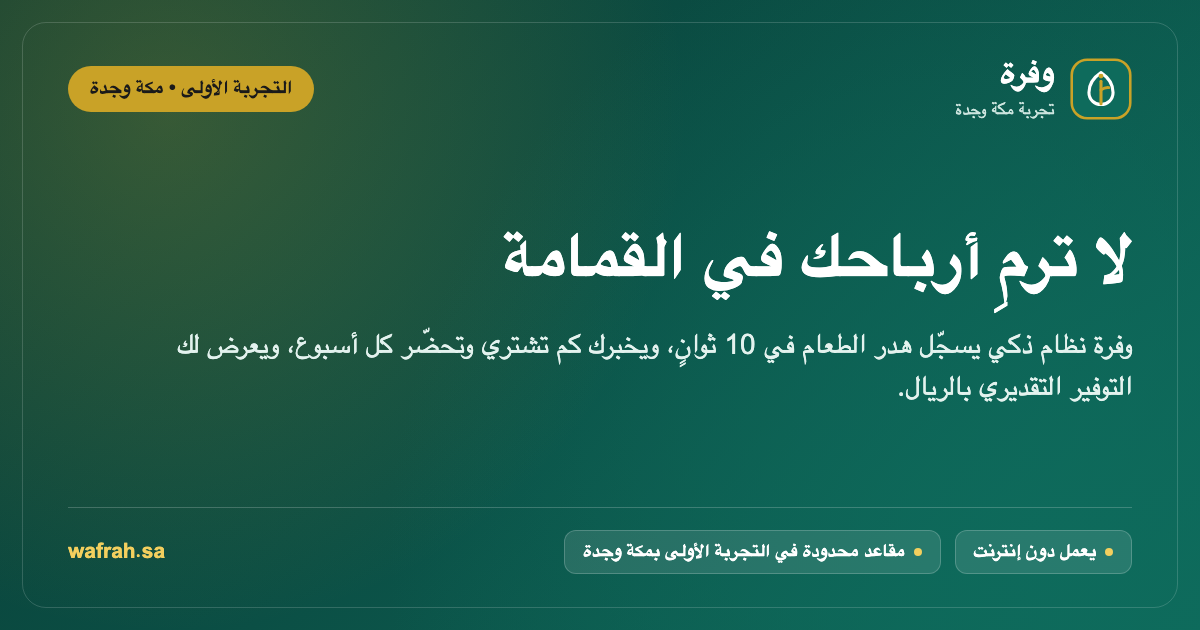
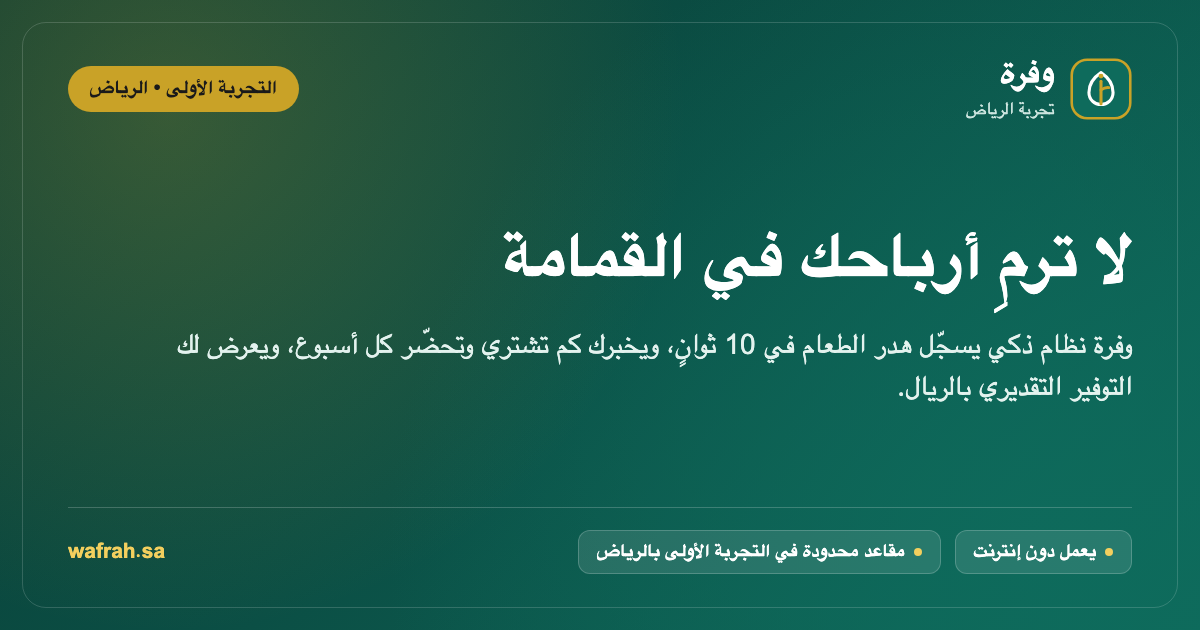
Switch founding pilot region across all pages from Makkah & Jeddah to Riyadh

Changed region(s): [[0.0617, 0.0905, 0.2775, 0.181], [0.4625, 0.8444, 0.555, 0.9048], [0.8017, 0.1508, 0.8633, 0.2111]]

diff --git a/src/features/landing/pilot-lead-form-fields.tsx b/src/features/landing/pilot-lead-form-fields.tsx
@@ -2,7 +2,6 @@
 
 import Link from "next/link";
 import {
-  LEAD_CITY_VALUES,
   LEAD_POS_VALUES,
   type LeadCityValue,
   type LeadFieldErrors,
@@ -11,11 +10,22 @@ import {
 } from "@/features/leads/schema";
 import { LabeledLeadInput, LeadRadioGroup } from "./lead-form-controls";
 
-const CITY_KEY: Record<LeadCityValue, "makkah" | "jeddah" | "other"> = {
-  MAKKAH: "makkah",
-  JEDDAH: "jeddah",
-  OTHER: "other",
-};
+export type LeadCityUiOption = "RIYADH" | LeadCityValue;
+
+const UI_CITY_OPTIONS: ReadonlyArray<LeadCityUiOption> = [
+  "RIYADH",
+  "JEDDAH",
+  "MAKKAH",
+  "OTHER",
+];
+
+const CITY_KEY: Record<LeadCityUiOption, "riyadh" | "makkah" | "jeddah" | "other"> =
+  {
+    RIYADH: "riyadh",
+    MAKKAH: "makkah",
+    JEDDAH: "jeddah",
+    OTHER: "other",
+  };
 
 const POS_KEY: Record<LeadPosValue, "foodics" | "marn" | "other" | "none"> = {
   FOODICS: "foodics",
@@ -27,7 +37,7 @@ const POS_KEY: Record<LeadPosValue, "foodics" | "marn" | "other" | "none"> = {
 export interface LeadFormFieldsState {
   name: string;
   businessName: string;
-  city: LeadCityValue;
+  city: LeadCityUiOption;
   cityOther: string;
   role: string;
   phone: string;
@@ -110,9 +120,9 @@ export function PilotLeadFormFields({
         labelId="lead-city-label"
         label={t("fields.city.label")}
         value={values.city}
-        columnsClassName="grid-cols-3"
+        columnsClassName="grid-cols-2 sm:grid-cols-4"
         alignClassName="text-center"
-        options={LEAD_CITY_VALUES.map((option) => ({
+        options={UI_CITY_OPTIONS.map((option) => ({
           value: option,
           label: t(`fields.city.options.${CITY_KEY[option]}`),
           testId: `lead-city-${option}`,

diff --git a/src/features/landing/landing-seo.test.ts b/src/features/landing/landing-seo.test.ts
@@ -182,6 +182,11 @@ describe("landing SEO, structured data & content QA", () => {
     expect(entries).toHaveLength(3);
     const [org, app, faq] = entries;
     expect(org["@type"]).toBe("Organization");
+    expect(org.areaServed).toEqual(
+      expect.arrayContaining([
+        expect.objectContaining({ "@type": "City", name: "Riyadh" }),
+      ]),
+    );
     expect(app["@type"]).toBe("SoftwareApplication");
     expect(app).not.toHaveProperty("aggregateRating");
     expect(app).not.toHaveProperty("review");
@@ -222,6 +227,12 @@ describe("landing SEO, structured data & content QA", () => {
     expect(arMessages.landing.hero.mock.kpiDeltaValue).toContain(
       "\u2066-16%\u2069",
     );
+    expect(arMessages.landing.hero.eyebrow).toContain("الرياض");
+    expect(arMessages.landing.header.pilotTag).toContain("الرياض");
+    expect(arMessages.landing.footer.pilotRegions).toContain("الرياض");
+    expect(enMessages.landing.hero.eyebrow).toContain("Riyadh");
+    expect(enMessages.landing.header.pilotTag).toContain("Riyadh");
+    expect(enMessages.landing.footer.pilotRegions).toContain("Riyadh");
 
     const publicDir = path.resolve(process.cwd(), "public");
     for (const file of ["og-ar.png", "og-en.png"]) {

diff --git a/src/features/landing/pilot-lead-form.tsx b/src/features/landing/pilot-lead-form.tsx
@@ -32,7 +32,7 @@ interface PilotLeadFormProps {
 const INITIAL_VALUES: LeadFormFieldsState = {
   name: "",
   businessName: "",
-  city: "MAKKAH",
+  city: "RIYADH",
   cityOther: "",
   role: "",
   phone: "",
@@ -125,9 +125,20 @@ export function PilotLeadForm({
     if (submitting) return;
 
     setFormError(null);
+    const apiCity: LeadCityValue =
+      values.city === "RIYADH" ? "OTHER" : values.city;
+    const apiCityOther =
+      values.city === "RIYADH"
+        ? locale === "en"
+          ? "Riyadh"
+          : "الرياض"
+        : values.city === "OTHER"
+          ? values.cityOther
+          : "";
     const candidate = {
       ...values,
-      cityOther: values.city === "OTHER" ? values.cityOther : "",
+      city: apiCity,
+      cityOther: apiCityOther,
     };
     const parsed = pilotLeadFormSchema.safeParse(candidate);
     if (!parsed.success) {
@@ -189,7 +200,7 @@ export function PilotLeadForm({
         );
         track("lead_submit", {
           locale,
-          city: payload.city ?? values.city,
+          city: payload.city ?? apiCity,
           currentPos: payload.posSystem ?? values.posSystem,
           branchesBand:
             payload.branchesBand ??

diff --git a/src/features/landing/landing-jsonld.ts b/src/features/landing/landing-jsonld.ts
@@ -38,8 +38,7 @@ export function buildLandingJsonLd(input: LandingJsonLdInput) {
     url: baseUrl,
     logo: `${baseUrl}/icon-512.png`,
     areaServed: [
-      { "@type": "City", name: isEn ? "Makkah" : "مكة المكرمة" },
-      { "@type": "City", name: isEn ? "Jeddah" : "جدة" },
+      { "@type": "City", name: isEn ? "Riyadh" : "الرياض" },
       {
         "@type": "Country",
         name: isEn ? "Saudi Arabia" : "المملكة العربية السعودية",

diff --git a/docs/LANDING.md b/docs/LANDING.md
@@ -6,7 +6,7 @@
 
 ## 1. Product Positioning, Audience & Tone
 
-- **Primary Goal:** Collect pilot sign-ups from restaurant and hotel owners/managers in **Makkah and Jeddah** (founding cohort capped at **15 pilot restaurants**).
+- **Primary Goal:** Collect pilot sign-ups from restaurant and hotel owners/managers in **Riyadh** (founding cohort capped at **15 pilot restaurants**).
   - **Primary CTA:** `"احجز مكانك في التجربة"` / `"Request a spot in the pilot"` (scrolls to and focuses `#pilot-form`).
   - **Secondary CTA:** WhatsApp chat (`https://wa.me/${NEXT_PUBLIC_WHATSAPP_NUMBER}`).
 - **Target Audience:** Saudi restaurant owners, F&B directors, and hotel hospitality managers browsing primarily on **mobile phones** (**assume 80%+ mobile traffic**).
@@ -73,7 +73,7 @@ All copy keys live under `landing.*` in `messages/ar.json` and `messages/en.json
   - Title, practical subheadline mentioning 10-second logging, weekly buy/prep recommendations, and savings in SAR.
   - Primary CTA button (`Request a spot in the pilot` -> smooth-scrolls to `#pilot-form` and focuses first input).
   - Secondary CTA button (`Chat on WhatsApp` -> `https://wa.me/${NEXT_PUBLIC_WHATSAPP_NUMBER}` in new tab with `rel="noopener noreferrer"`).
-  - Urgency/scarcity note anchored to truth (`"Limited places in the first pilot in Makkah and Jeddah"`).
+  - Urgency/scarcity note anchored to truth (`"Limited places in the first pilot in Riyadh"`).
 
 ### 2. Problem (`landing.problem`)
 - **Heading:** `"الهدر يأكل هامش ربحك بصمت"` / `"Waste quietly eats your margin"`
@@ -146,7 +146,7 @@ All copy keys live under `landing.*` in `messages/ar.json` and `messages/en.json
 
 ### 9. Sources & Footer (`landing.sources`, `landing.footer`)
 - **Sources block:** Reads ordered citation items from `src/config/sources.ts` so citations stay decoupled from translation prose. Renders clearly labeled placeholder notices until verified URLs are entered.
-- **Footer:** Compact product summary for Makkah & Jeddah hospitality operators, links to `/privacy`, `/terms`, `/help`, `/login`, WhatsApp link, contact email (`FOUNDER_EMAIL` exposed only via server action/mailto if explicitly intended, or contact form/support email), and copyright.
+- **Footer:** Compact product summary for Riyadh hospitality operators, links to `/privacy`, `/terms`, `/help`, `/login`, WhatsApp link, contact email (`FOUNDER_EMAIL` exposed only via server action/mailto if explicitly intended, or contact form/support email), and copyright.
 
 ---
 
@@ -215,14 +215,14 @@ Added to `.env.example`:
 ### Proposed Meta Tags
 - **Arabic (`/`):**
   - `title`: `وفرة — نظام ذكي لإدارة هدر الطعام في المطاعم والفنادق بالسعودية`
-  - `description`: `سجّل هدر المطبخ في 10 ثوانٍ حتى بدون إنترنت، واحصل على توصيات شراء وتحضير أسبوعية وتقرير توفير تقديري بالريال. التجربة الأولى في مكة وجدة.`
+  - `description`: `سجّل هدر المطبخ في 10 ثوانٍ حتى بدون إنترنت، واحصل على توصيات شراء وتحضير أسبوعية وتقرير توفير تقديري بالريال. التجربة الأولى في الرياض.`
 - **English (`/en`):**
   - `title`: `Wafrah — Smart Food Waste Management for Saudi Restaurants & Hotels`
-  - `description`: `Log kitchen waste in 10 seconds even offline, get weekly buy-and-prep recommendations, and track estimated SAR savings. Founding pilot in Makkah & Jeddah.`
+  - `description`: `Log kitchen waste in 10 seconds even offline, get weekly buy-and-prep recommendations, and track estimated SAR savings. Founding pilot in Riyadh.`
 
 ### Target Keywords
-- **Arabic:** إدارة هدر الطعام في المطاعم، تقليل تكلفة الغذاء، نظام تتبع هدر المطبخ، برنامج حساب الهدر الغذائي، تقليل هدر الفنادق السعودية، توقع المبيعات للمطاعم، مكة، جدة، تكلفة المواد الغذائية.
-- **English:** restaurant food waste management Saudi Arabia, kitchen waste tracking app, reduce food cost Makkah Jeddah, hospitality food waste software KSA, restaurant prep forecasting, Foodics CSV waste analytics.
+- **Arabic:** إدارة هدر الطعام في المطاعم، تقليل تكلفة الغذاء، نظام تتبع هدر المطبخ، برنامج حساب الهدر الغذائي، تقليل هدر الفنادق السعودية، توقع المبيعات للمطاعم، الرياض، تكلفة المواد الغذائية.
+- **English:** restaurant food waste management Saudi Arabia, kitchen waste tracking app, reduce food cost Riyadh, hospitality food waste software KSA, restaurant prep forecasting, Foodics CSV waste analytics.
 
 ---
 
@@ -251,10 +251,10 @@ Review and sign off on every item below before deploying UI code or driving traf
 | 2 | **Problem — Stat 2** | `"26% — متوسط هدر المطاعم من مشترياتها"` | Provide the exact verified study/report citation and URL confirming `26%` of purchases applies specifically to restaurants (as opposed to household/overall sector share), or adjust copy to match the exact cited study. |
 | 3 | **Problem — Statement 3** | `"ربع فاتورة المشتريات تُرمى دون أن يلاحظ أحد"` | Confirm you want this editorial statement left live alongside Stat 2 (approx. `26%` ≈ a quarter), styled without a source citation. |
 | 4 | **Hero Speed Claim** | `"يسجّل هدر الطعام في 10 ثوانٍ"` / `"logs kitchen waste in 10 seconds"` | Confirm actual kitchen tablet logging flow matches ≤10 seconds (`<10s` per `SPEC.md`: tap item, quantity, reason, assuming staff PIN session is unlocked). |
-| 5 | **Calculator Defaults** | Default monthly purchases `50,000` SAR, default current waste `10%`, conservative reduction `20%` (slider ranges `5k–500k`, `2%–35%`, `10%–40%`) | Confirm default benchmark values reflect realistic Makkah/Jeddah restaurant economics you feel comfortable standing behind publicly. |
+| 5 | **Calculator Defaults** | Default monthly purchases `50,000` SAR, default current waste `10%`, conservative reduction `20%` (slider ranges `5k–500k`, `2%–35%`, `10%–40%`) | Confirm default benchmark values reflect realistic Riyadh restaurant economics you feel comfortable standing behind publicly. |
 | 6 | **Pricing & VAT** | Tiers: `400` / `700` / `1,200` SAR/mo (`Small` / `Medium` / `Hotel or chain`). `"vatNote"` is currently `""` (hidden) | Define exact tier limits (branch count, staff accounts, SKU count if any), confirm amounts, and specify VAT copy for `landing.pricing.vatNote` (e.g., excluding vs including 15% Saudi VAT once VAT-registered). |
 | 7 | **Pilot Duration & Terms (FAQ #6 & Pilot Box)** | `"فترة تجريبية مجانية لأول 15 مطعماً"` + neutral FAQ #6 placeholder saying pilot length & terms are agreed directly when joining | Decide exact free trial duration (e.g., 30 days / 60 days / 90 days) and post-pilot commercial commitment so both can be stated clearly. |
-| 8 | **15-Spot Cap Enforcement** | Landing promise caps first pilot cohort at `15` restaurants in Makkah & Jeddah | Decide what happens when lead #16 submits (manual screening of applicants for the 15 pilot slots vs waitlist messaging). |
+| 8 | **15-Spot Cap Enforcement** | Landing promise caps first pilot cohort at `15` restaurants in Riyadh | Decide what happens when lead #16 submits (manual screening of applicants for the 15 pilot slots vs waitlist messaging). |
 | 9 | **Response SLA in Lead Form** | `"تم استلام طلبك، سنتواصل معك خلال يوم عمل"` / `"within one business day"` | Confirm founder/team can honor a 1-business-day turnaround on incoming leads (or adjust to `"قريباً"` / `"soon"`). |
 | 10 | **Legal Pages (`/privacy`, `/terms`)** | Placeholder legal routes exist in `src/app/privacy` & `src/app/terms`; Lead form asks for consent linking to Privacy Policy | Replace placeholder legal text with Saudi PDPL-reviewed Privacy Policy and Terms & Conditions (including lead data retention & cross-border hosting disclosure) before collecting real leads. |
 | 11 | **Signed-in `/` Routing** | Proposed rendering landing page + `"Go to workspace"` header button even when signed in | Confirm whether signed-in users visiting `/` should stay on the landing page (recommended) or keep redirecting to `/dashboard` / `/log`. |

diff --git a/DATA.md b/DATA.md
@@ -103,7 +103,7 @@ Because **no non-essential, marketing, or analytics cookies** exist, no tracking
 - **What is NOT stored:** Client IP addresses, user-agent strings, cookies, or tracking fingerprints are **not** stored on `Lead` records (IP addresses are used only ephemerally in server memory for per-hour sliding-window rate limiting).
 
 ### 8.2 Purpose, Legal Basis & Access Control
-- **Purpose:** Reviewing pilot applications, contacting applicants within one business day via WhatsApp/phone/email, and recording onboarding eligibility during the Makkah & Jeddah founding pilot.
+- **Purpose:** Reviewing pilot applications, contacting applicants within one business day via WhatsApp/phone/email, and recording onboarding eligibility during the Riyadh founding pilot.
 - **Legal basis:** Explicit applicant consent recorded at submission (`consent = true`, `consentAt`) via the public pilot request form (`#pilot-form` -> `POST /api/leads`) linking to `/privacy`.
 - **Access restriction:** `Lead` is classified as a platform-only table (`PLATFORM_ONLY_MODELS`). `createTenantDb` / `getTenantDb` explicitly forbid every query or mutation on `Lead` (`TenantIsolationError`), `GET /api/leads` returns `405`, and `/api/admin/leads*` enforces `PLATFORM_ADMIN` role authorization (`requireRole("admin.*")`). Status transitions are logged via `AuditLog` (`ADMIN_LEAD_STATUS_UPDATED`, `tenantId: null`) without duplicating lead PII.
 

diff --git a/docs/LANDING-QA.md b/docs/LANDING-QA.md
@@ -1,6 +1,6 @@
 # Wafrah Landing Page — Launch Readiness QA Report
 
-Audit and remediation report for Wafrah's public marketing pages (`/` Arabic RTL default, `/en` English LTR) ahead of pilot sign-up collection in Makkah and Jeddah.
+Audit and remediation report for Wafrah's public marketing pages (`/` Arabic RTL default, `/en` English LTR) ahead of pilot sign-up collection in Riyadh.
 
 ---
 
